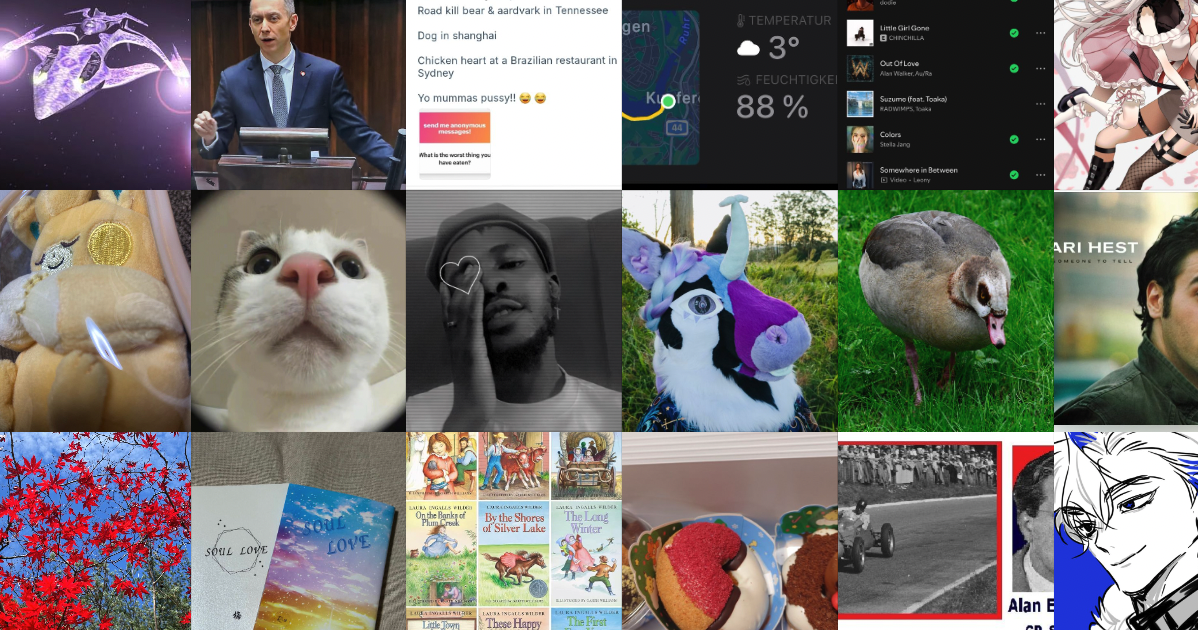
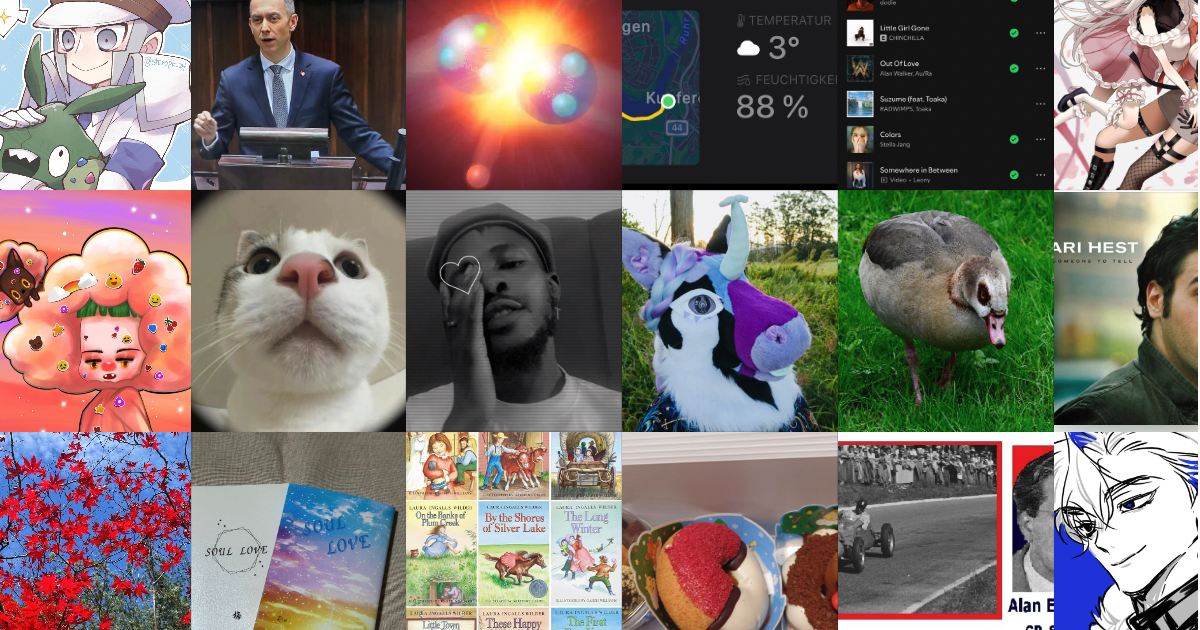
Update og and add links to the posts

Changed region(s): [[0.0, 0.0, 0.185, 0.6937], [0.3392, 0.0, 0.5242, 0.3016]]

diff --git a/script.js b/script.js
@@ -22,17 +22,17 @@ function setupWebSocket() {
         
         const json = JSON.parse(event.data);
         
-        // Check if it's a post with an image
         if (json.commit?.record?.$type === "app.bsky.feed.post" && 
             json.commit.record.embed?.$type === "app.bsky.embed.images") {
             
             const did = json.did;
-            const image = json.commit.record.embed.images[0];
-            const ref = image.image.ref.$link;
+            const rkey = json.commit.rkey; // Get the rkey for the post URL
             
-            // Construct the image URL
-            const imageUrl = `https://cdn.bsky.app/img/feed_thumbnail/plain/${did}/${ref}@jpeg`;
-            addImageToMosaic(imageUrl);
+            json.commit.record.embed.images.forEach(image => {
+                const ref = image.image.ref.$link;
+                const imageUrl = `https://cdn.bsky.app/img/feed_thumbnail/plain/${did}/${ref}@jpeg`;
+                addImageToMosaic(imageUrl, did, rkey);
+            });
         }
     };
 
@@ -115,16 +115,15 @@ window.addEventListener('resize', () => {
 // Initial setup
 initializeMosaic();
 
-function addImageToMosaic(imageUrl) {
+function addImageToMosaic(imageUrl, did, rkey) {
     const img = new Image();
     img.src = imageUrl;
+    img.dataset.postUrl = `https://bsky.app/profile/${did}/post/${rkey}`; // Store the URL
     
     img.onload = () => {
         if (isPaused) {
-            // Skip this image entirely if we're paused
             return;
         }
-        
         displayImage(img);
     };
 
@@ -139,7 +138,14 @@ function addImageToMosaic(imageUrl) {
 function displayImage(img) {
     const imgContainer = document.createElement('div');
     imgContainer.className = 'image-container flip-in';
-    imgContainer.appendChild(img);
+    
+    // Create an anchor element
+    const link = document.createElement('a');
+    link.href = img.dataset.postUrl; // We'll set this when creating the image
+    link.target = '_blank'; // Open in new tab
+    link.appendChild(img);
+    
+    imgContainer.appendChild(link);
 
     const oldContainer = mosaic.children[currentIndex];
     oldContainer.classList.add('flip-out');
